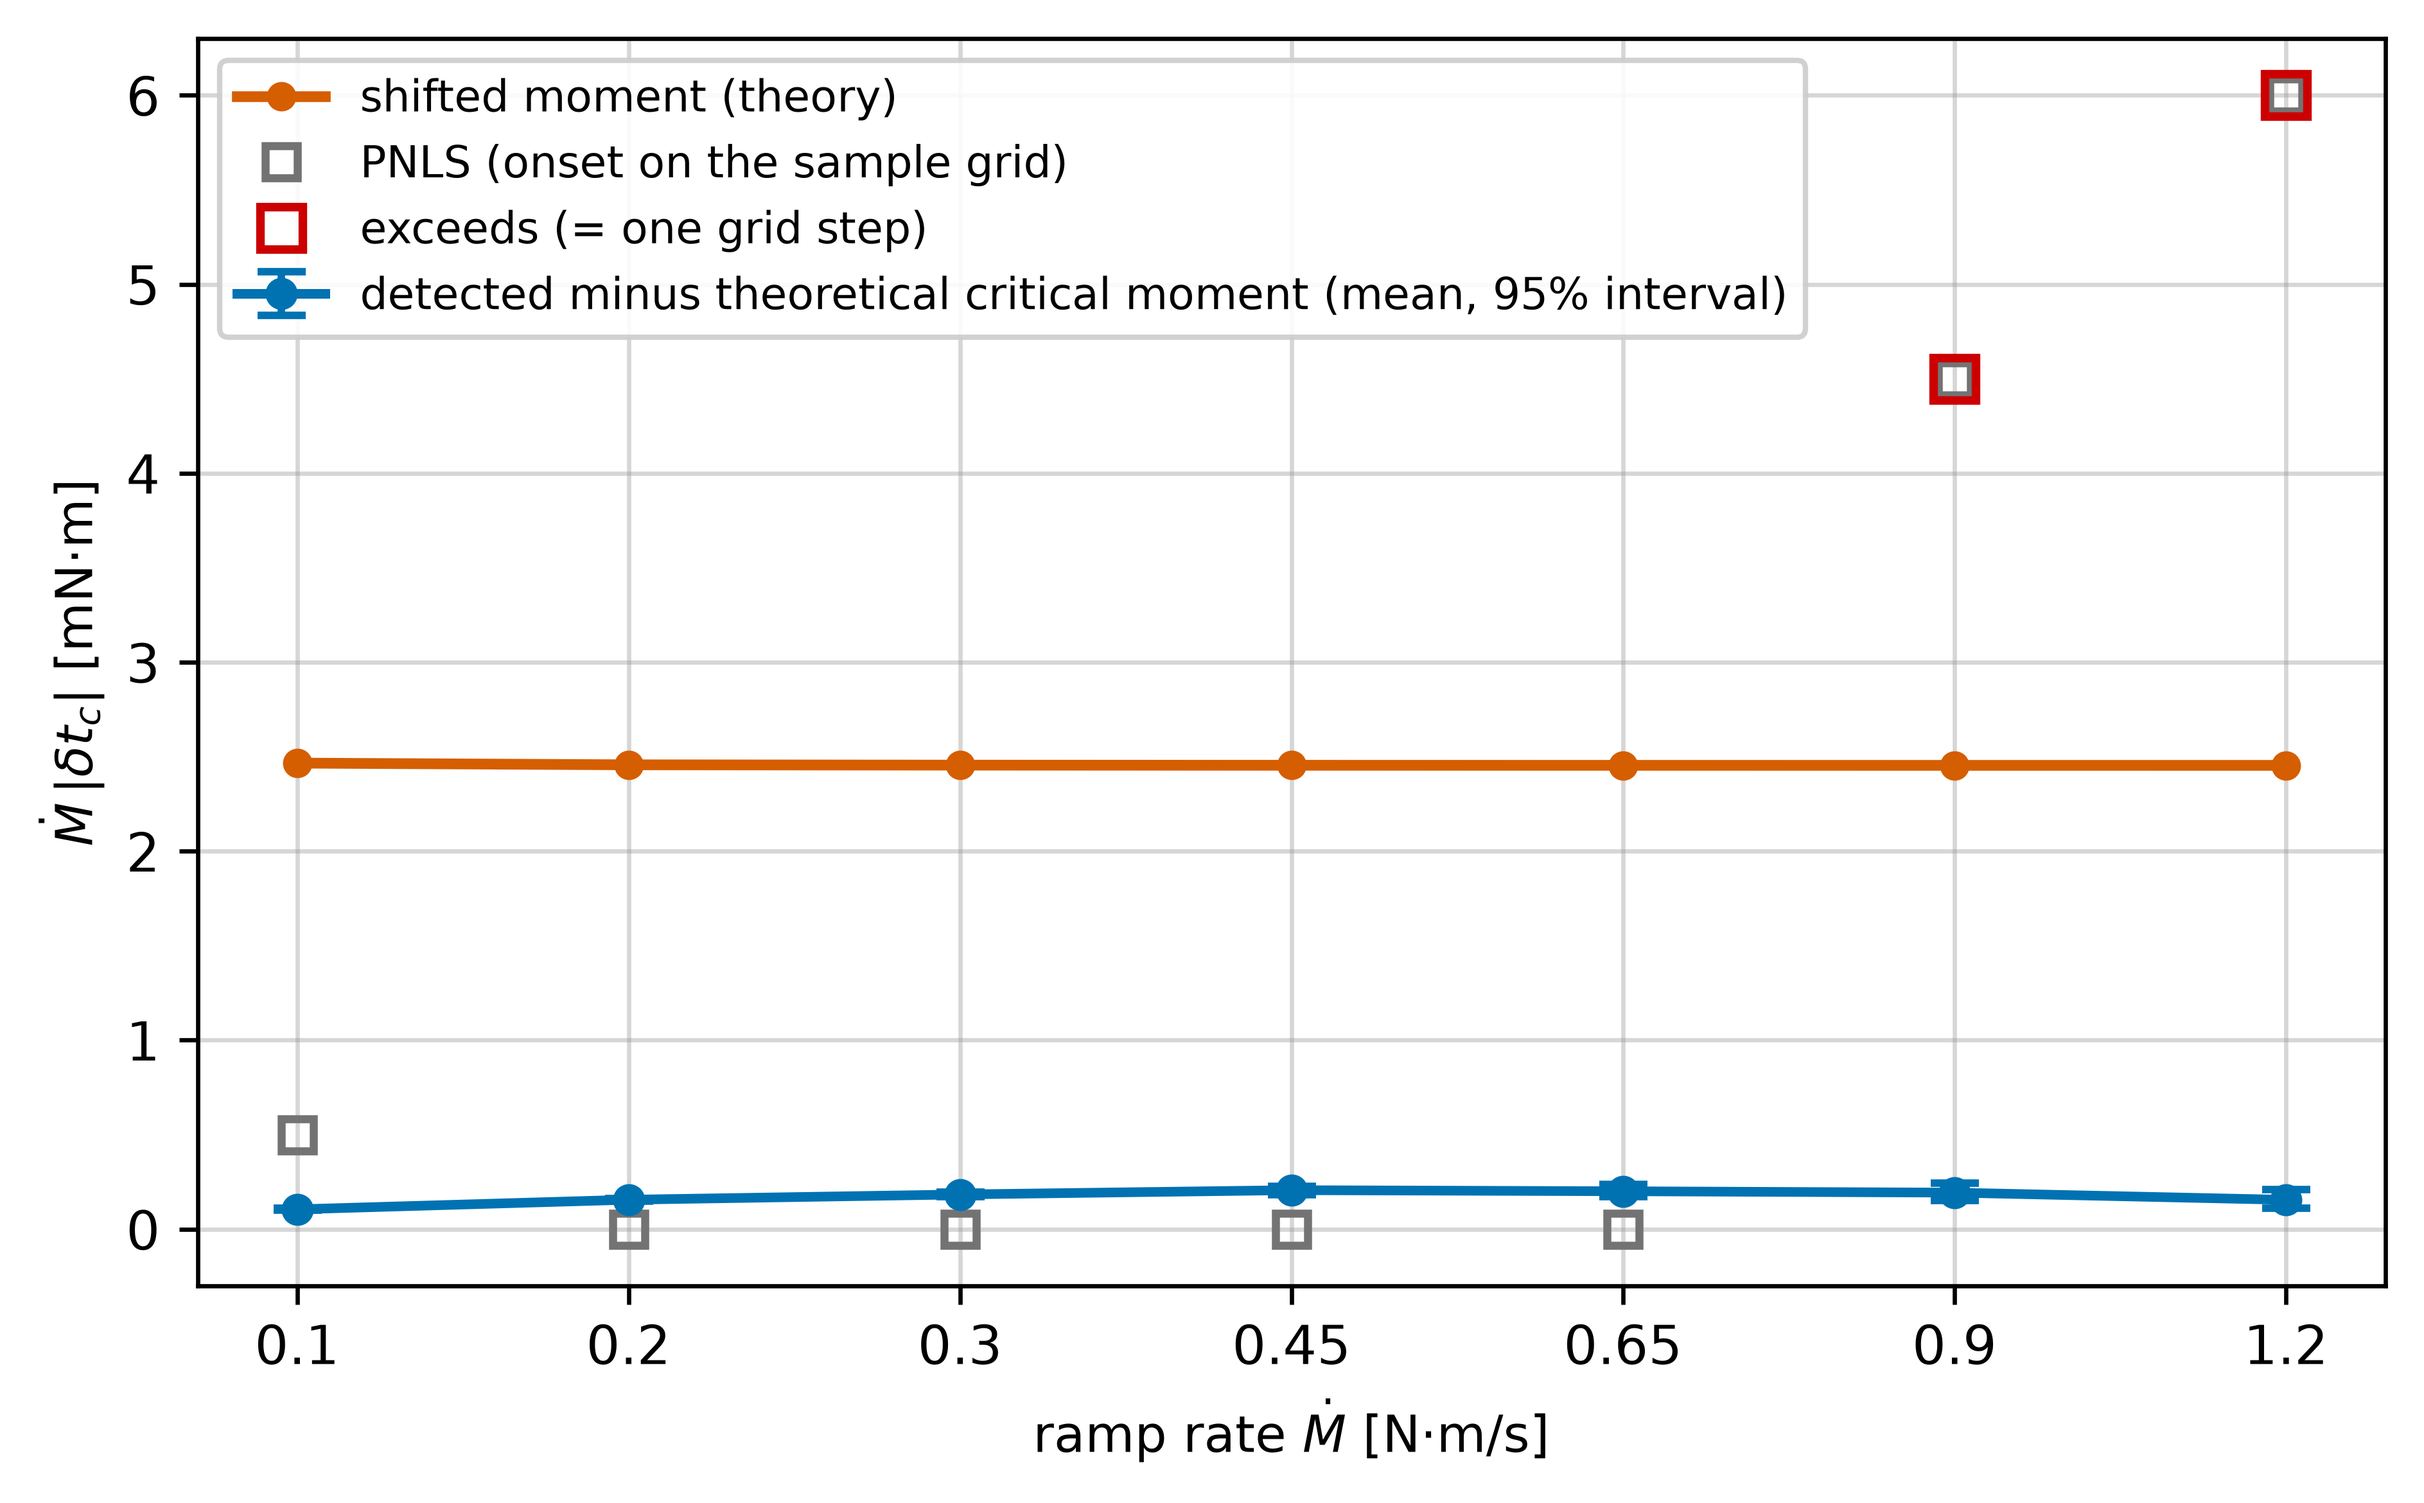
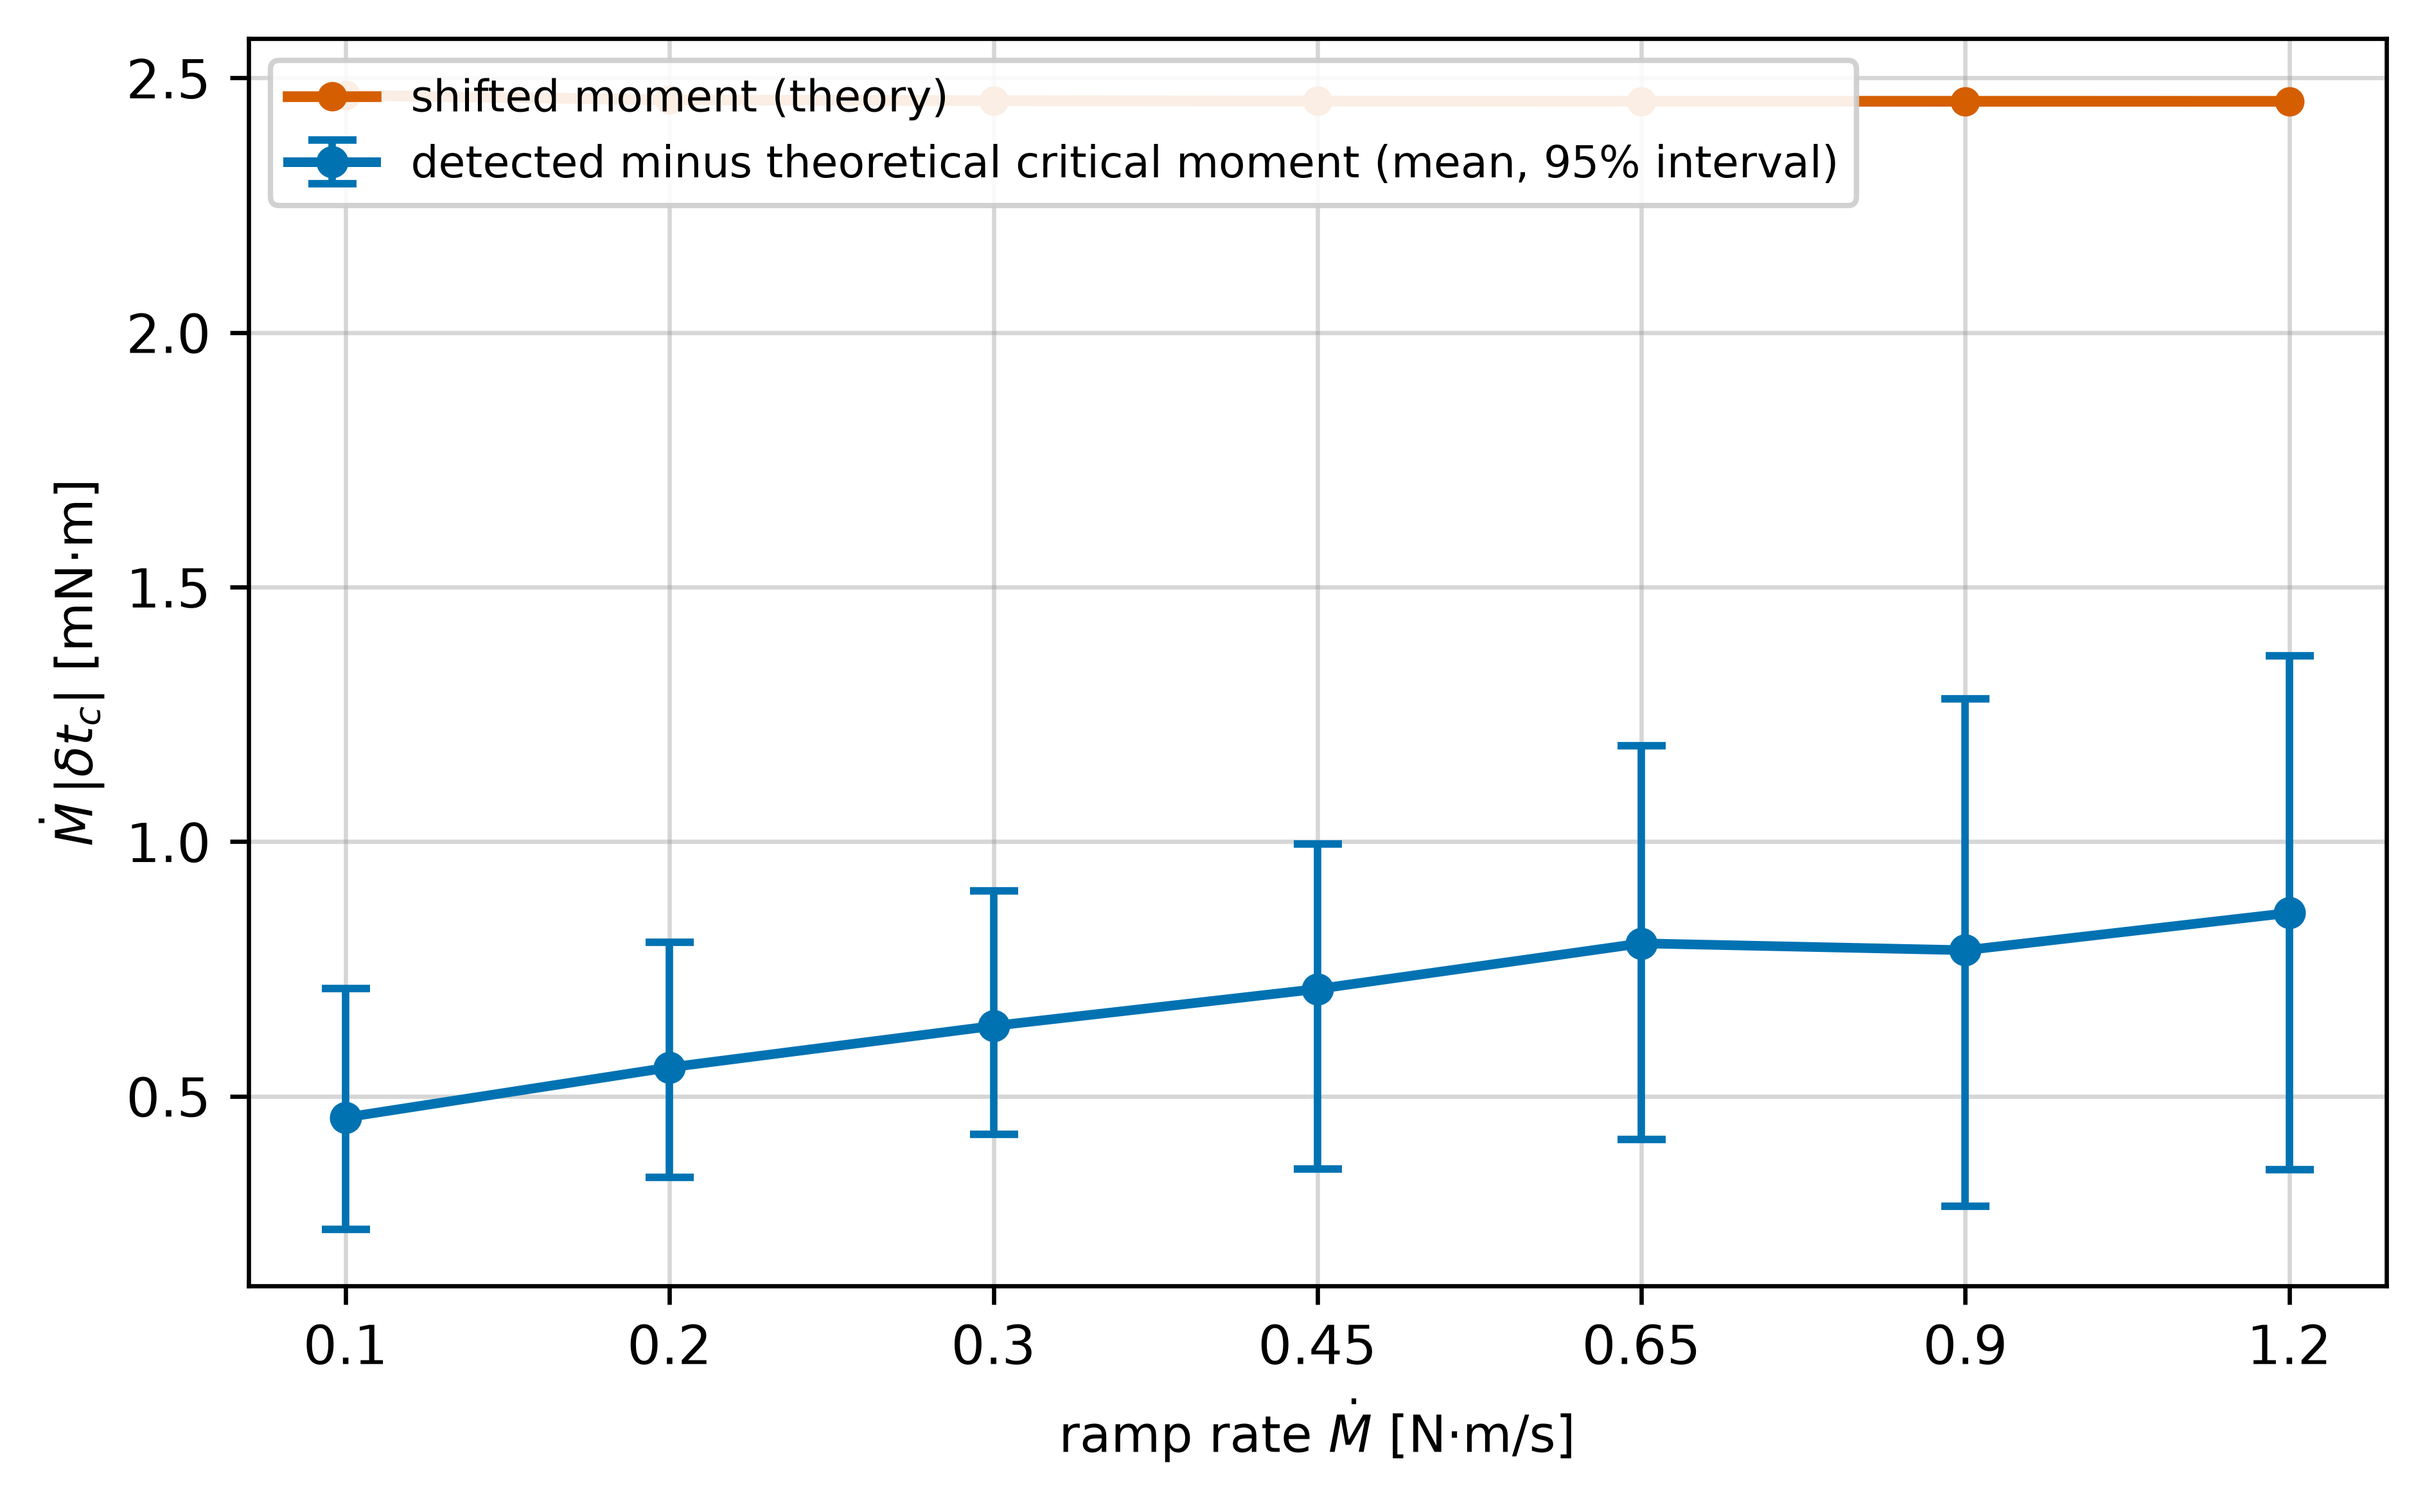
Validate the shift bound on the calibration-free fit alone
The free sweep gains the same parabolic sub-sample onset refinement
as the constrained one (readout only; the RMSE is untouched), so
both theory checks now run on one calibration-free estimator: the
realised shift stays inside (104) at every rate, the 95% upper cap
at most 56% of the bound.

Claude-Session: https://claude.ai/code/session_01BM6bcsm1ZtLtgegEeuFDVS

diff --git a/analysis/shift_validation_fig.py b/analysis/shift_validation_fig.py
@@ -3,12 +3,10 @@
 
 Exact nonlinear contact dynamics (true onset known) at each campaign
 ramp rate. Orange: the shifted-moment bound of (104). Blue: the
-detected-minus-theoretical critical moment through the deployed
-constrained readout (Algorithm 1, sub-sample refined), mean and 95%
-interval over noise realisations. Grey squares: the stage-1 PNLS fit, whose
-onset lives on the sample grid -- at the fast ramps its shift is
-exactly one grid step Mdot*Ts and exceeds the bound (red rings),
-a sampling artefact the constrained readout removes.
+detected-minus-theoretical critical moment through the calibration-free
+PNLS fit (sub-sample refined onset), mean and 95% interval over noise
+realisations -- the same estimator the RMSE-bound validation uses, so
+both theory checks run on one calibration-free fit.
 
 Usage
 -----
@@ -39,7 +37,7 @@ def main():
     args.outdir.mkdir(parents=True, exist_ok=True)
 
     rho = wv.R_PHI * 0.5 * wv.W * wv.L_ARM * wv.PHI_MAX ** 2
-    ceil, mean, lo, hi, free = [], [], [], [], []
+    ceil, mean, lo, hi = [], [], [], []
     for mdot in RATES:
         wv.SIGMA, wv.BIAS = 0.0, 0.0
         t, y0, tau, e_om, x = wv.simulate(mdot)       # clean record
@@ -48,25 +46,17 @@ def main():
             rng = np.random.default_rng(100 + s)
             y = y0 + BIA + rng.normal(0, SIG, len(t))
             pw = cvp.cosh_onset_fit(t, y, np.zeros_like(t),
-                                    onset_guess=None, c2_fixed=wv.C2,
-                                    moment_floor=0.0, ramp_gain=wv.K,
-                                    ramp_rate=mdot)
+                                    onset_guess=None, c2_fixed=None,
+                                    moment_floor=0.0)
             dms.append(1e3 * mdot * abs(pw['onset_t']))
         dms = np.array(dms)
         mean.append(dms.mean())
         lo.append(np.percentile(dms, 2.5))
         hi.append(np.percentile(dms, 97.5))
-        rng = np.random.default_rng(100)
-        y = y0 + BIA + rng.normal(0, SIG, len(t))
-        pwf = cvp.cosh_onset_fit(t, y, np.zeros_like(t),
-                                 onset_guess=None, c2_fixed=None,
-                                 moment_floor=0.0)
-        free.append(1e3 * mdot * abs(t[pwf['onset_idx']]))
         u = rho * wv.C2 / mdot
         ceil.append(1e3 * (mdot / wv.C2) * np.arctanh(min(u, 0.999)))
         print(f'{mdot:.2f}: mean {dms.mean():.3f} '
-              f'[{lo[-1]:.3f},{hi[-1]:.3f}]  free {free[-1]:.2f}  '
-              f'ceil {ceil[-1]:.2f}')
+              f'[{lo[-1]:.3f},{hi[-1]:.3f}]  ceil {ceil[-1]:.2f}')
 
     mean, lo, hi = map(np.array, (mean, lo, hi))
     ix = range(len(RATES))
@@ -78,13 +68,11 @@ def main():
                 elinewidth=1.4, capsize=4.5, capthick=1.4, zorder=3,
                 label='detected minus theoretical critical moment '
                       '(mean, 95% interval)')
-    ax.plot(ix, free, 's', ms=6, mfc='none', mew=1.5, color='0.45',
-            label='PNLS (onset on the sample grid)', zorder=3)
-    bad = [i for i, (f, c) in enumerate(zip(free, ceil)) if f > c]
+    bad = [i for i, (h, c) in enumerate(zip(hi, ceil)) if h > c]
     if bad:
-        ax.plot([list(ix)[i] for i in bad], [free[i] for i in bad],
-                's', ms=8, mfc='none', mew=1.6, color='#CC0000',
-                label='exceeds (= one grid step)', zorder=5)
+        ax.plot([list(ix)[i] for i in bad], [hi[i] for i in bad],
+                'o', ms=8, mfc='none', mew=1.6, color='#CC0000',
+                label='95% upper cap exceeds', zorder=5)
     ax.set_xticks(list(ix))
     ax.set_xticklabels([f'{v:g}' for v in RATES])
     ax.set_xlabel(r'ramp rate $\dot M$ [N·m/s]', fontsize=9.5)

diff --git a/docs/tab_shift_validation.tex b/docs/tab_shift_validation.tex
@@ -1,37 +1,30 @@
-% Realised critical-moment shift Mdot*|t* - t_on| on the exactly
-% integrated contact dynamics (true onset known), against the ceiling
-% of (104) evaluated with the same constants.  Two readouts: the
-% deployed constrained one (Algorithm 1, sub-sample refined) and the
-% free PNLS fit, whose onset lives on the sample grid.
-% Reproduced by analysis/witness_verify.py (check 6) and the
-% free-fit variant in the same script's environment.
+% Realised critical-moment shift Mdot*|delta t_c| on the exactly
+% integrated contact dynamics (true onset known), against the bound
+% of (104) evaluated with the same constants.  The estimator is the
+% calibration-free PNLS fit with the sub-sample-refined onset -- the
+% same fit the RMSE-bound validation uses -- over 30 noise
+% realisations per rate.  Reproduced by
+% analysis/shift_validation_fig.py.
 \begin{table}[t]
-\caption{Realised critical-moment shift against the bound of (104),
-on the exactly integrated contact dynamics.}
+\caption{Realised critical-moment shift of the calibration-free PNLS
+fit against the bound of (104), on the exactly integrated contact
+dynamics (30 noise realisations per rate).}
 \label{tab:shift_validation}
 \centering
-\begin{tabular}{@{}ccccc@{}}
+\begin{tabular}{@{}cccc@{}}
 \toprule
 $\dot M$ & Bound (104) &
-\multicolumn{2}{c}{Realised $\dot M\,|t^{*}-t_{\rm on}|$ [mN$\cdot$m]}\\
+\multicolumn{2}{c}{$\dot M\,|\delta t_c|$ [mN$\cdot$m]}\\
 \cmidrule(lr){3-4}
-[N$\cdot$m/s] & [mN$\cdot$m] & constrained (Alg.~1) & free fit$^{\rm a}$\\
+[N$\cdot$m/s] & [mN$\cdot$m] & mean & 95\% interval\\
 \midrule
-0.10 & 2.47 & 0.11 & 0.50\\
-0.20 & 2.46 & 0.16 & 0.00\\
-0.30 & 2.46 & 0.19 & 0.00\\
-0.45 & 2.46 & 0.22 & 0.00\\
-0.65 & 2.45 & 0.22 & 0.00\\
-0.90 & 2.45 & 0.21 & 4.50\\
-1.20 & 2.45 & 0.17 & 6.00\\
+0.10 & 2.47 & 0.46 & $[0.24,\ 0.71]$\\
+0.20 & 2.46 & 0.56 & $[0.34,\ 0.80]$\\
+0.30 & 2.46 & 0.64 & $[0.43,\ 0.90]$\\
+0.45 & 2.45 & 0.71 & $[0.36,\ 1.00]$\\
+0.65 & 2.45 & 0.80 & $[0.42,\ 1.19]$\\
+0.90 & 2.45 & 0.79 & $[0.28,\ 1.28]$\\
+1.20 & 2.45 & 0.86 & $[0.36,\ 1.37]$\\
 \bottomrule
-\end{tabular}\\[2pt]
-\raggedright\footnotesize $^{\rm a}$ The free fit's onset lives on
-the sample grid (no sub-sample refinement), so its shift is
-quantised to multiples of $\dot M T_s$ ($T_s = 5$\,ms): the entries
-at $0.90$ and $1.20$\,N$\cdot$m/s are exactly one grid step and
-exceed the bound of (104), which budgets the onset-absorption
-channel alone, not sampling. The deployed readout removes this
-channel by its parabolic sub-sample refinement and stays at
-$4$--$9\%$ of the bound at every rate.
+\end{tabular}
 \end{table}

diff --git a/critical_value_getter_piecewise.py b/critical_value_getter_piecewise.py
@@ -519,6 +519,8 @@ def cosh_onset_fit(t, omega, moment, onset_guess,
         bounds = ([-5.0, c2_bounds[0]], [5.0, c2_bounds[1]])
         expand = lambda x, C0: (float(x[0]), float(x[1]), float(C0))
 
+    cost_of = {}
+
     def _sweep(candidates, best):
         for j in candidates:
             tau = t[j:] - t[j]
@@ -529,6 +531,7 @@ def cosh_onset_fit(t, omega, moment, onset_guess,
                               max_nfev=300)
             pre = np.sum((omega[:j] - C0) ** 2) if j > 0 else 0.0
             cost = float(np.sum(r.fun ** 2) + pre)
+            cost_of[j] = cost
             if cost < best[0]:
                 best = (cost, j, r.x, C0)
         return best
@@ -560,6 +563,20 @@ def cosh_onset_fit(t, omega, moment, onset_guess,
     params = expand(x_star, C0_star)
     C1, C2, C = params
     tau = t[j_star:] - t[j_star]
+    # Sub-sample refinement, exactly as in the constrained sweep: the
+    # profiled cost (parameters re-fitted at each candidate) is smooth
+    # and locally quadratic in the onset, so a parabola through the
+    # three profiled costs around j_star places its vertex at the
+    # sub-sample offset. Refines the onset READOUT only; the
+    # prediction and RMSE stay on the grid minimum.
+    dt = float(np.median(np.diff(t)))
+    frac = 0.0
+    a = cost_of.get(j_star - step)
+    c_ = cost_of.get(j_star + step)
+    if a is not None and c_ is not None:
+        den = a - 2.0 * cost + c_
+        if den > 0.0:
+            frac = float(np.clip(0.5 * (a - c_) / den, -0.5, 0.5)) * step
     # With the baseline pinned to the pre-segment median in every mode,
     # the prediction and the objective use one and the same C, and the
     # reported RMSE is exactly sqrt(cost/N), the quantity the sweep
@@ -570,6 +587,8 @@ def cosh_onset_fit(t, omega, moment, onset_guess,
 
     return dict(
         onset_idx=j_star,
+        onset_frac=float(frac),
+        onset_t=float(t[j_star] + frac * dt),
         c=float(C), alpha=float(C2),
         total_residual=float(cost),
         omega_pred=omega_pred,
